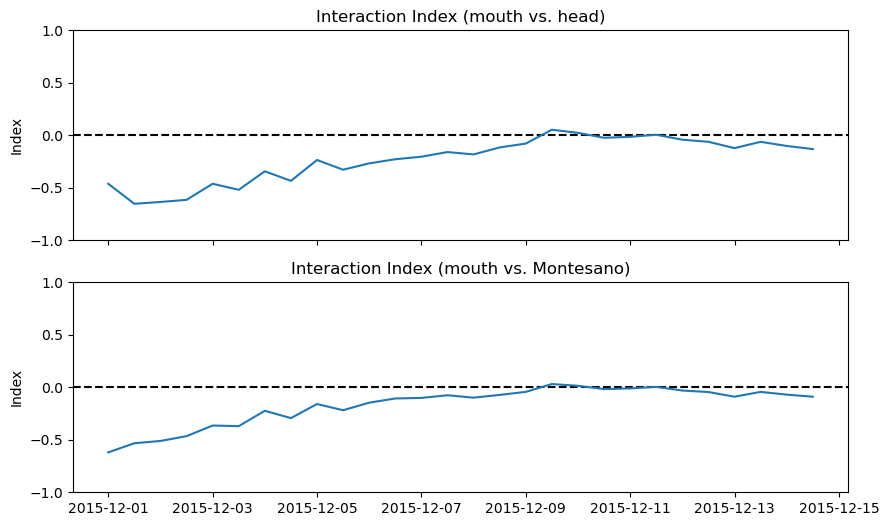
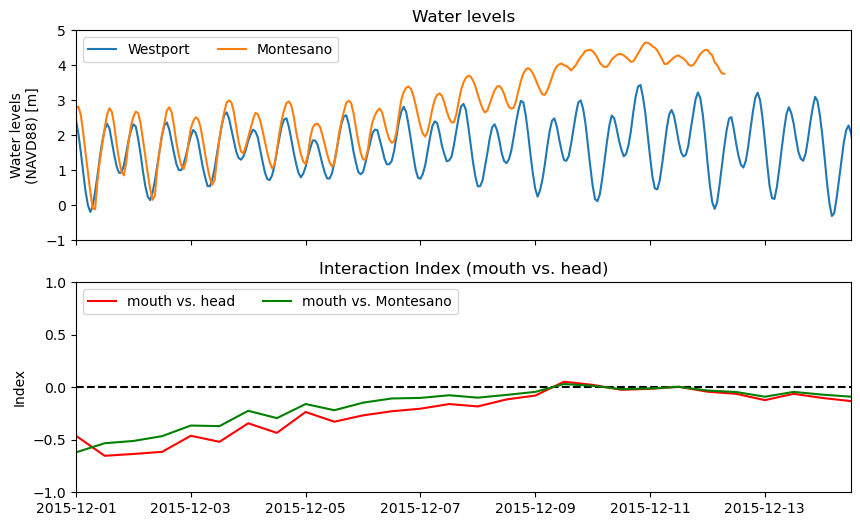
Update

diff --git a/WeeklyLogs/Log121425_122025.md b/WeeklyLogs/Log121425_122025.md
@@ -45,8 +45,14 @@ Figure 3: Discharge ratio between the mouth and upstream Chehalis River.
 Figure 4: Discharge ratio between Montesano and upstream Chehalis River.
 
 * Interaction index to characterize flow interaction ($mu$)
-	* Ratio index used in Juarez et al. (2022) to quantify interaction of river processes with ocean processes for every 12 hour tidal cycle
-	* 
+	* Ratio index used in Juarez et al. (2022) to quantify interaction of river processes with ocean processes for every 12 hour tidal cycle (Fig. 5)
+	* $mu$ = min(u_mouth)/max(u_upstream)
+	* $mu$<0 - ocean dominates
+	* $mu$>0 - river dominates
+	* We can see when comparing both the velocity at the head and Montesano with the mouth that river influence dominates just after December 9th, where water levels become elevated AND damped
+
+![IndexRatio](../Figures/121825meeting/Dec2015_interactionindex.png)<br>
+Figure 5: Water levels at Westport and Montesano (top). Interaction index for mouth vs. head velocities, and for mouth vs. Montesano velocities (bottom). 
 
 
 ### 2) Dec2025 storm post-storm vs. forecast
